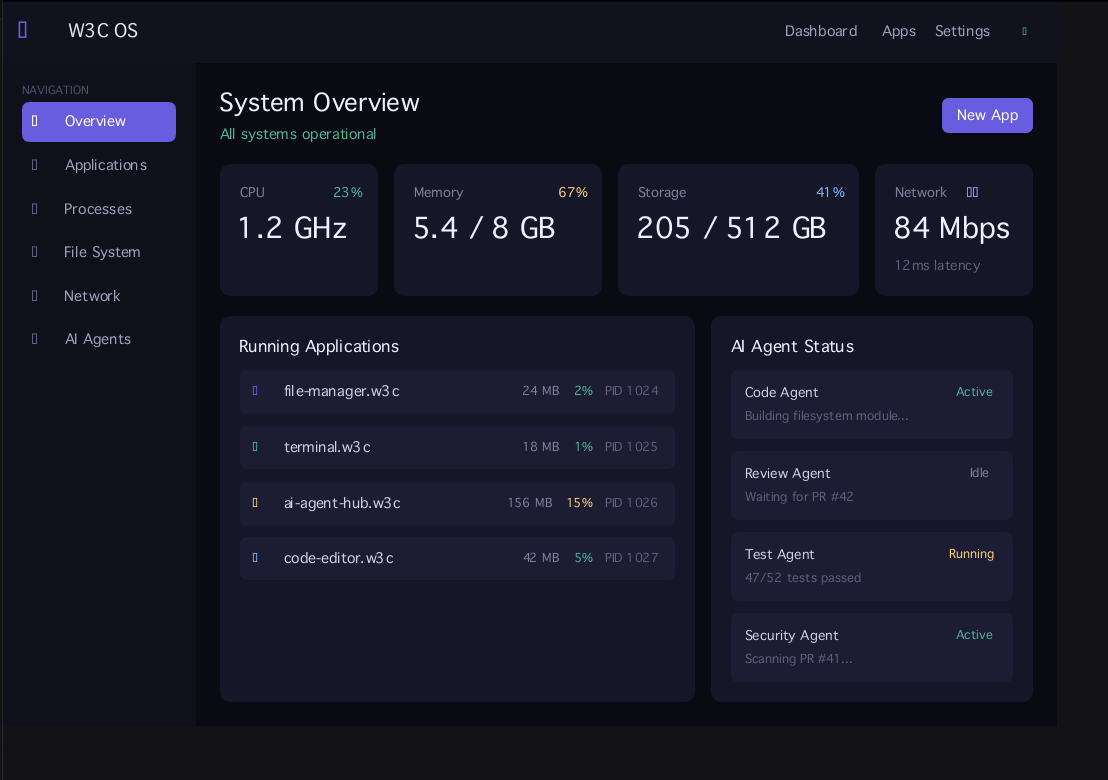
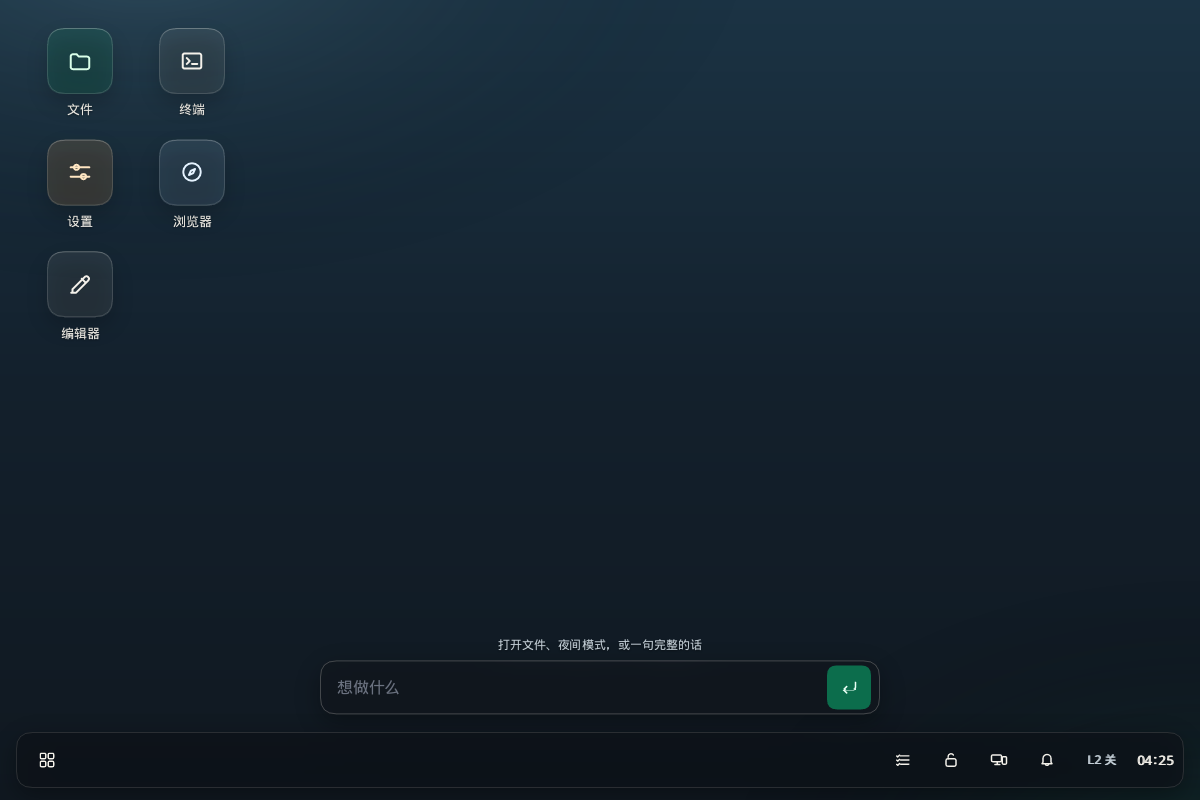
docs(readme): show the current shell on the front page
Replace the stale public image with an opaque desktop home and a phone
home of the running shell. Alpha is 255 on every pixel.

diff --git a/README.md b/README.md
@@ -7,7 +7,9 @@
 
 **An AI-native operating system and application runtime built on W3C standards. TypeScript + DOM run as native code, without embedding Chromium or V8.**
 
-![W3C OS Demo](docs/screenshot.png)
+![Desktop home: icons, the intent bar, and L2 off on the taskbar](docs/screenshot.png)
+
+![Phone home of the same shell](docs/screenshot-phone.png)
 
 ```
 app.ts  →  w3cos build  →  native binary (2.4 MB)
